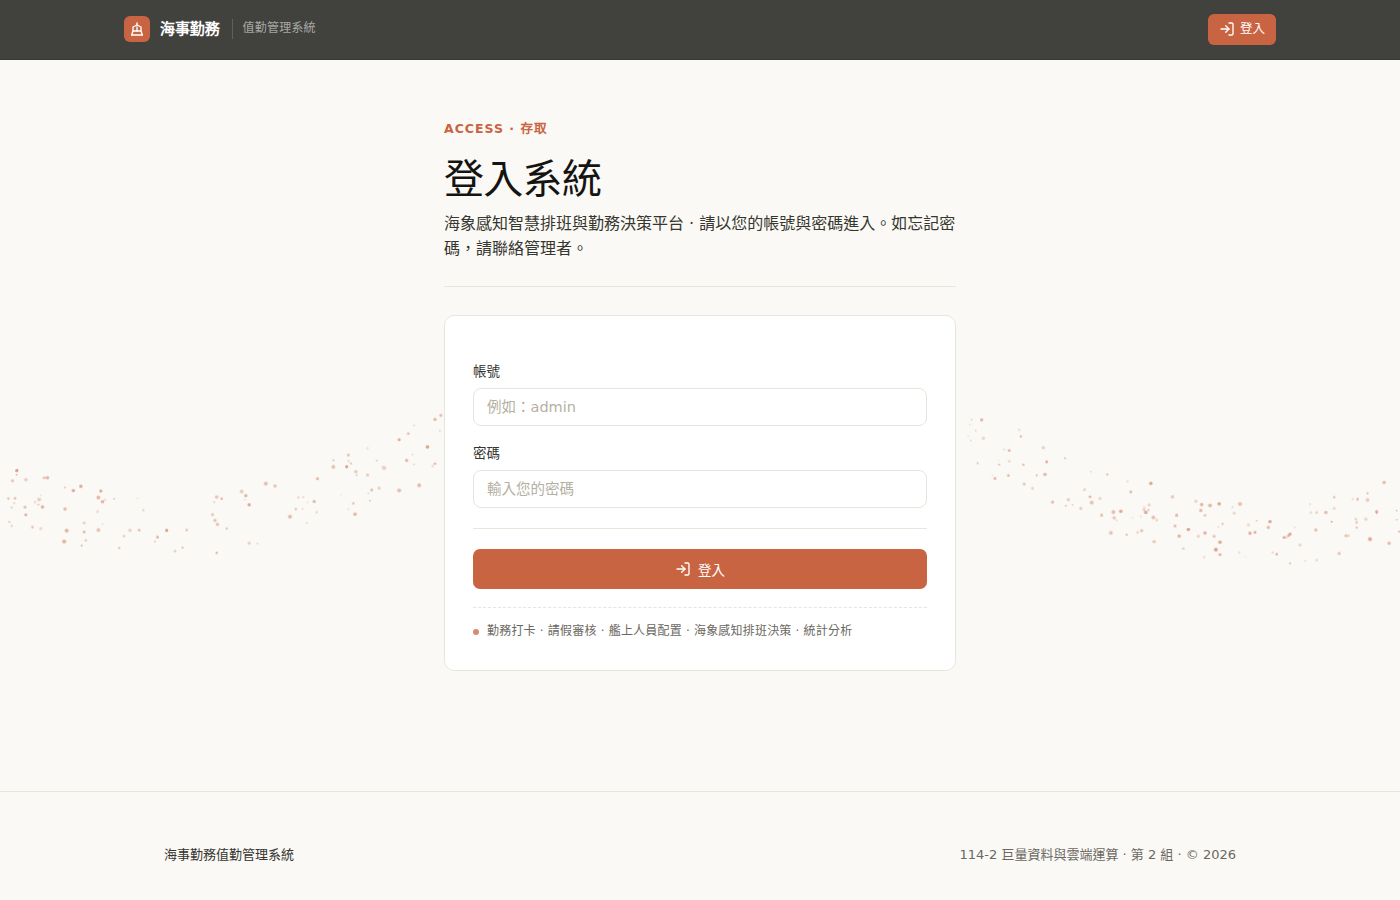
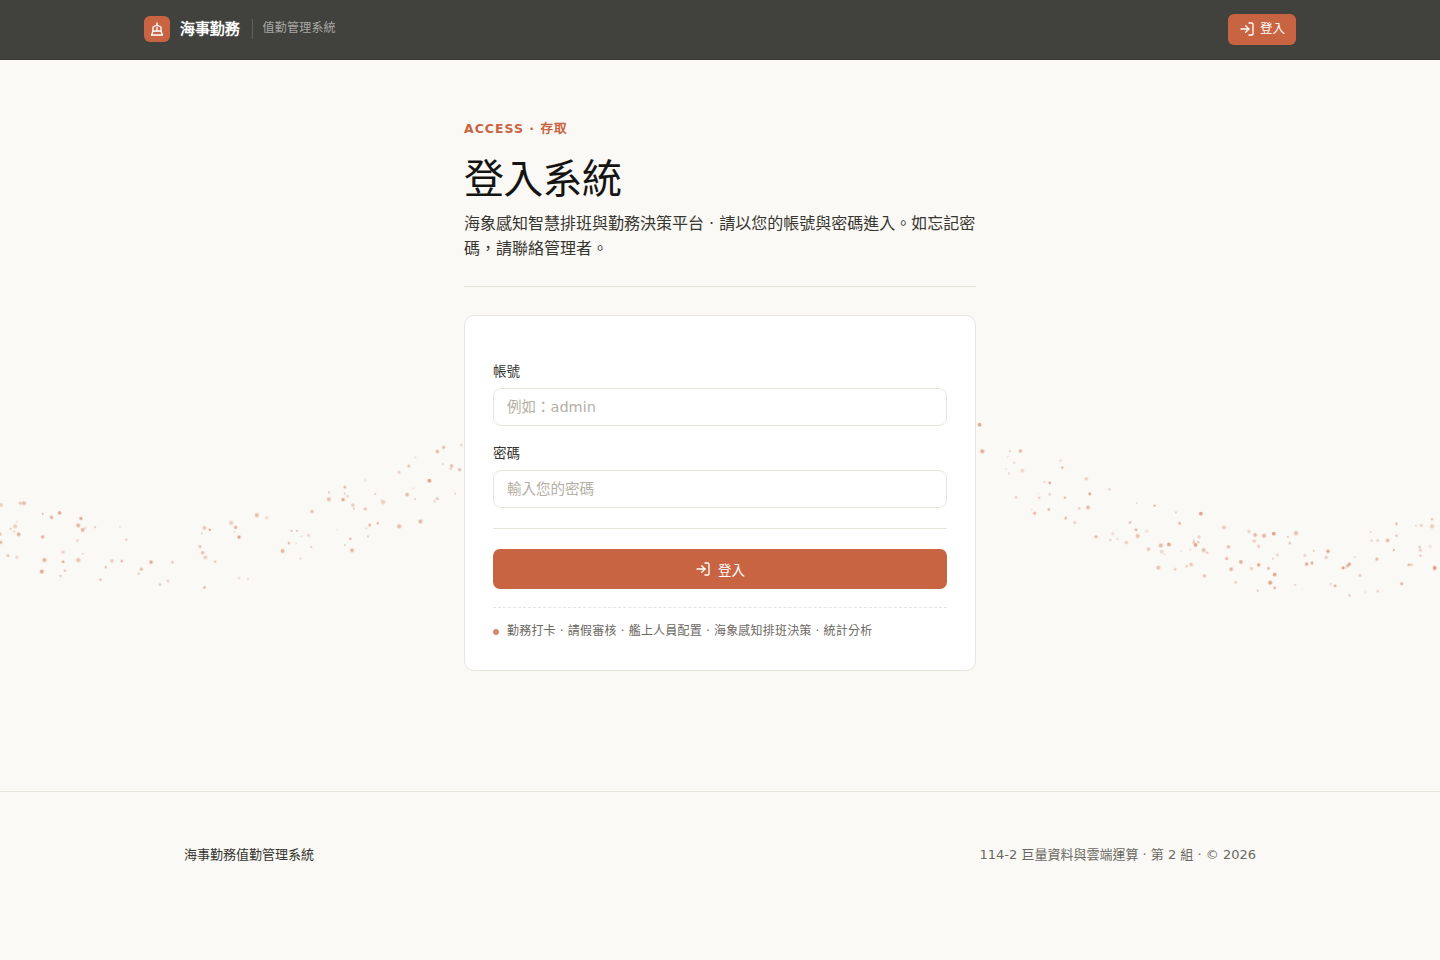
[docs] 更新系統截圖：明日排班決策頁為旗艦、排班引擎+地圖、即時海象儀表板

diff --git a/README.md b/README.md
@@ -23,13 +23,17 @@
 
 ## 系統截圖
 
-| 登入頁 | 個人儀表板 |
-|--------|-----------|
-| ![登入](docs/screenshots/test/01_login.png) | ![儀表板](docs/screenshots/test/02_dashboard.png) |
+**⭐ 明日排班決策頁（旗艦差異化功能）** — 自動排班引擎輸出三海域班表
 
-| 勤務決策建議看板 | 統計分析圖表 |
-|-----------------|-------------|
-| ![決策建議](docs/screenshots/test/09_recommendations.png) | ![圖表](docs/screenshots/test/11_charts_section.png) |
+![明日排班](docs/screenshots/02_scheduler.png)
+
+| 排班引擎 + Folium 互動地圖 | 員工儀表板（即時海象 + 疲勞指數）|
+|--------------------------|-----------------------------|
+| ![排班地圖](docs/screenshots/04_engine_map.png) | ![儀表板](docs/screenshots/03_dashboard.png) |
+
+| 登入頁 | 分析儀表板 |
+|--------|-----------|
+| ![登入](docs/screenshots/01_login.png) | ![分析](docs/screenshots/03_admin_dashboard_hero.png) |
 
 ---
 
